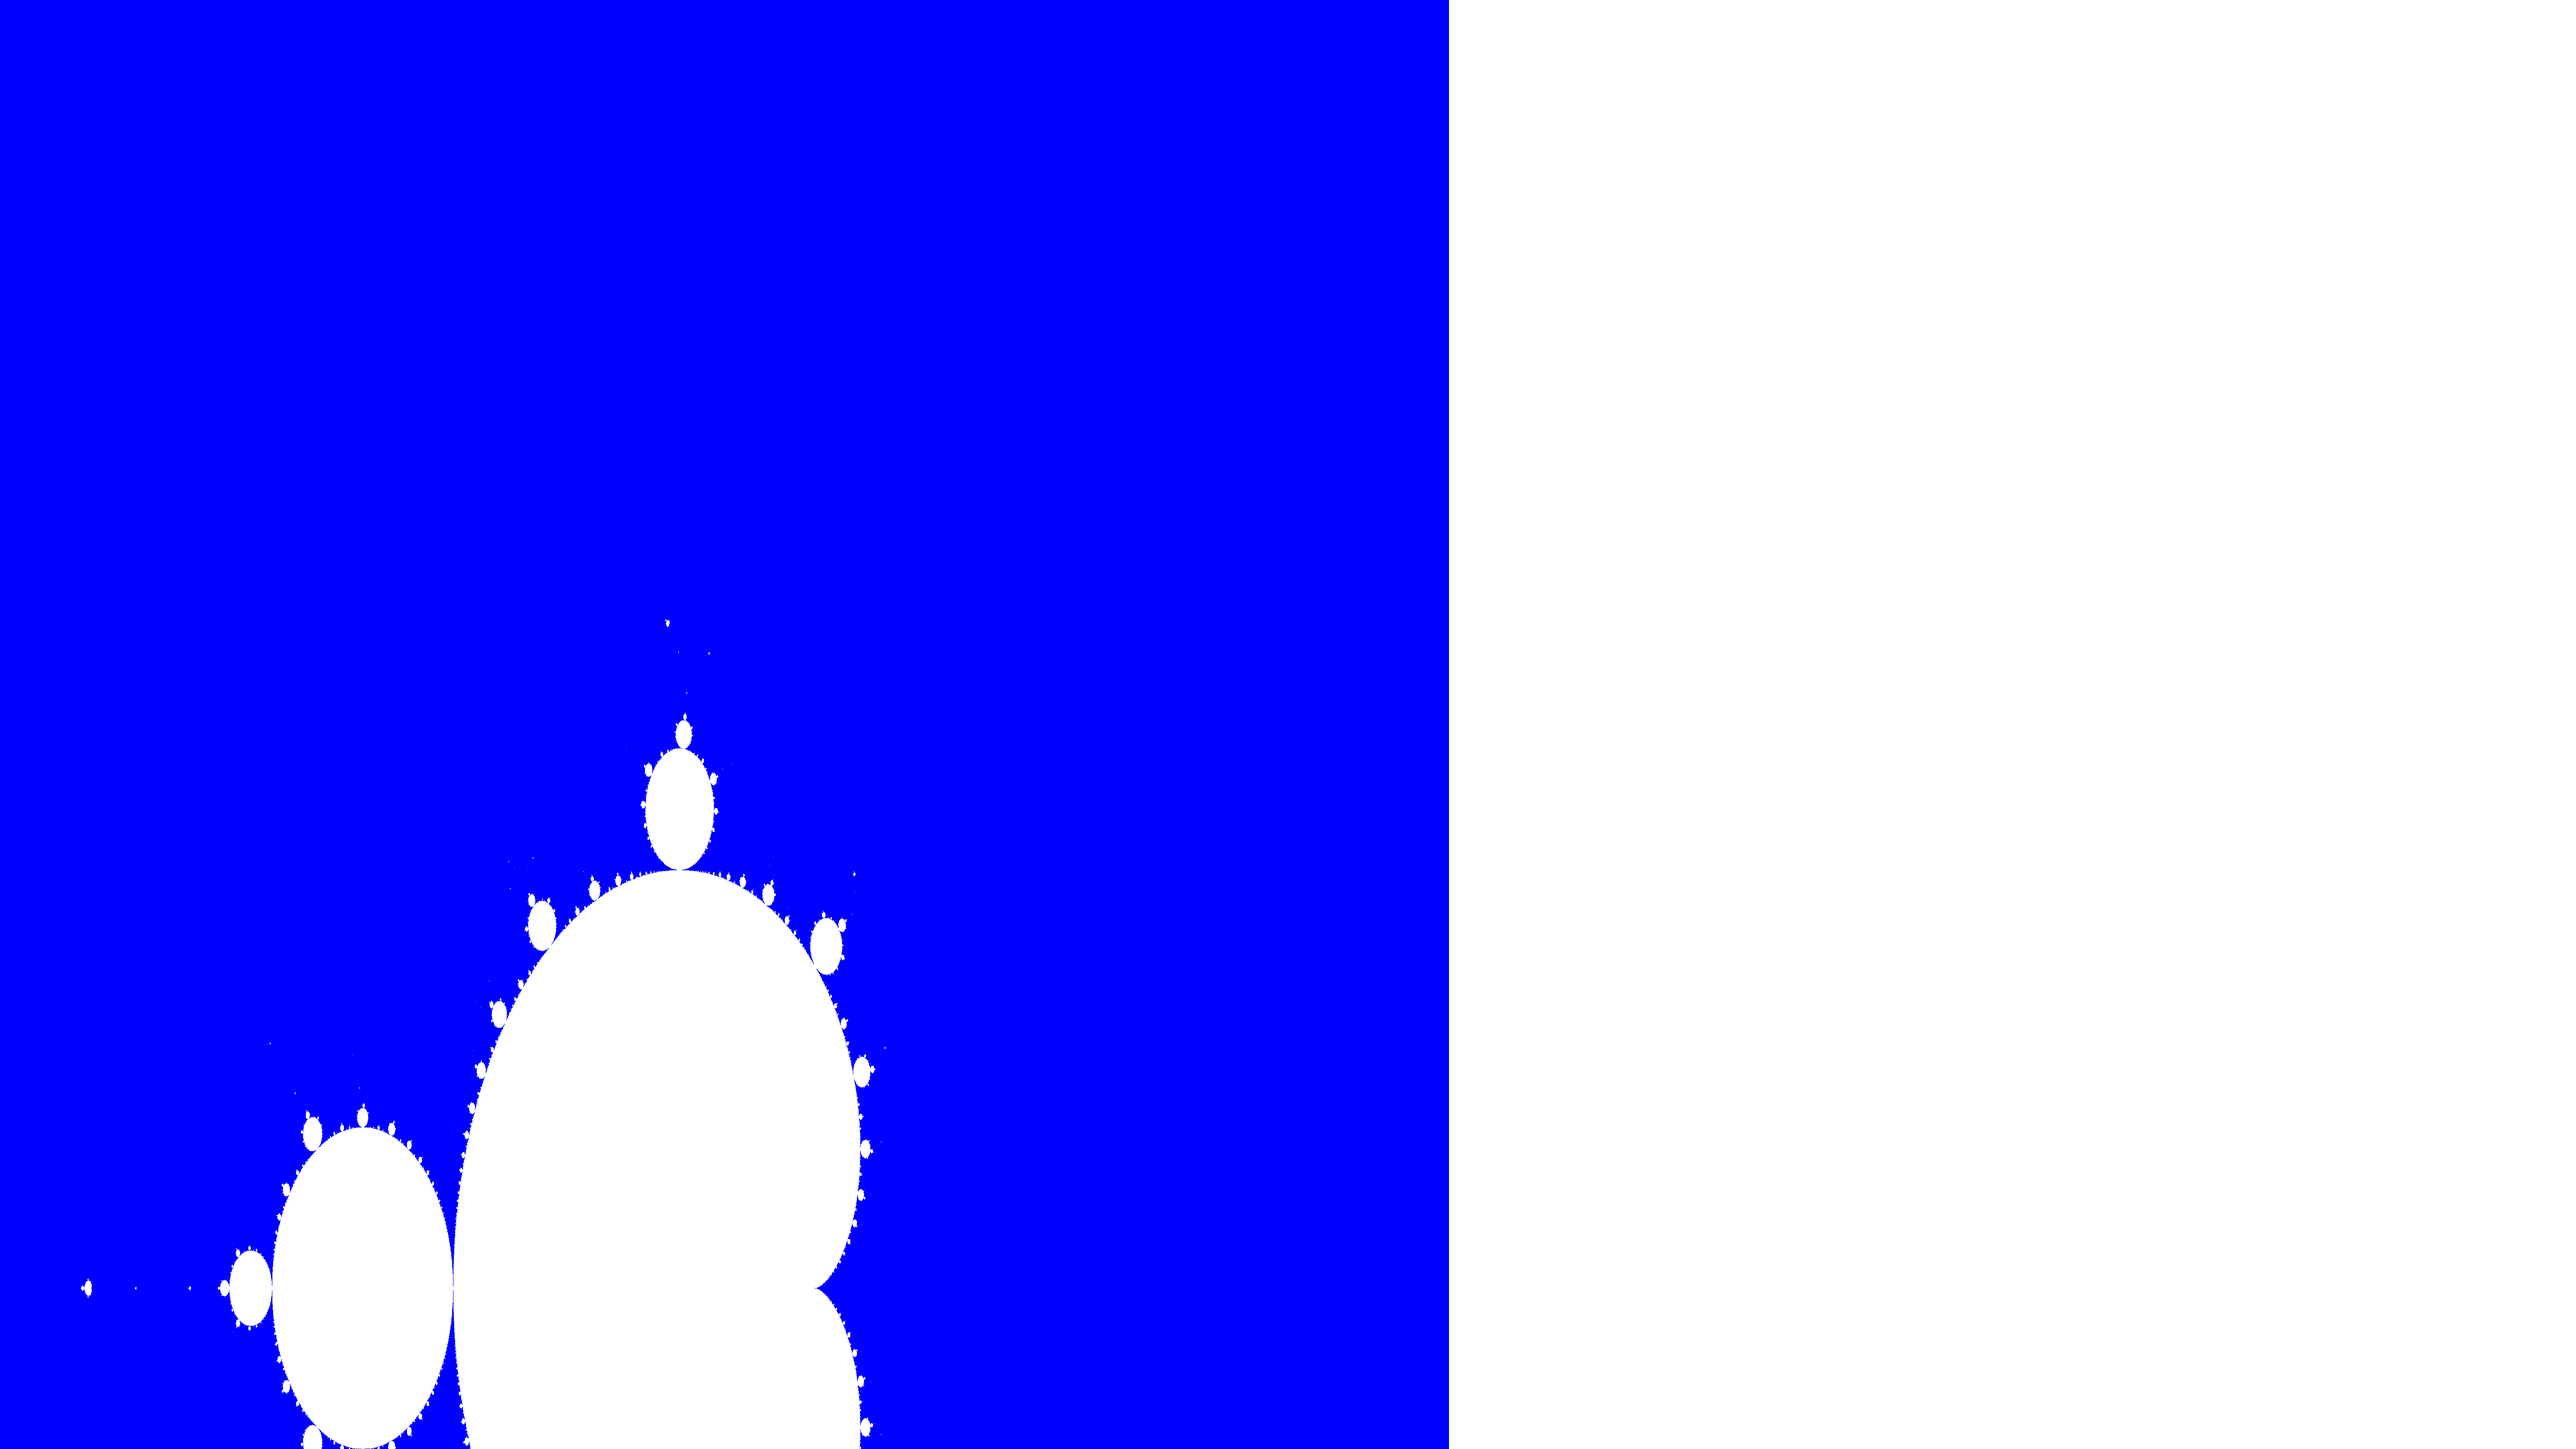
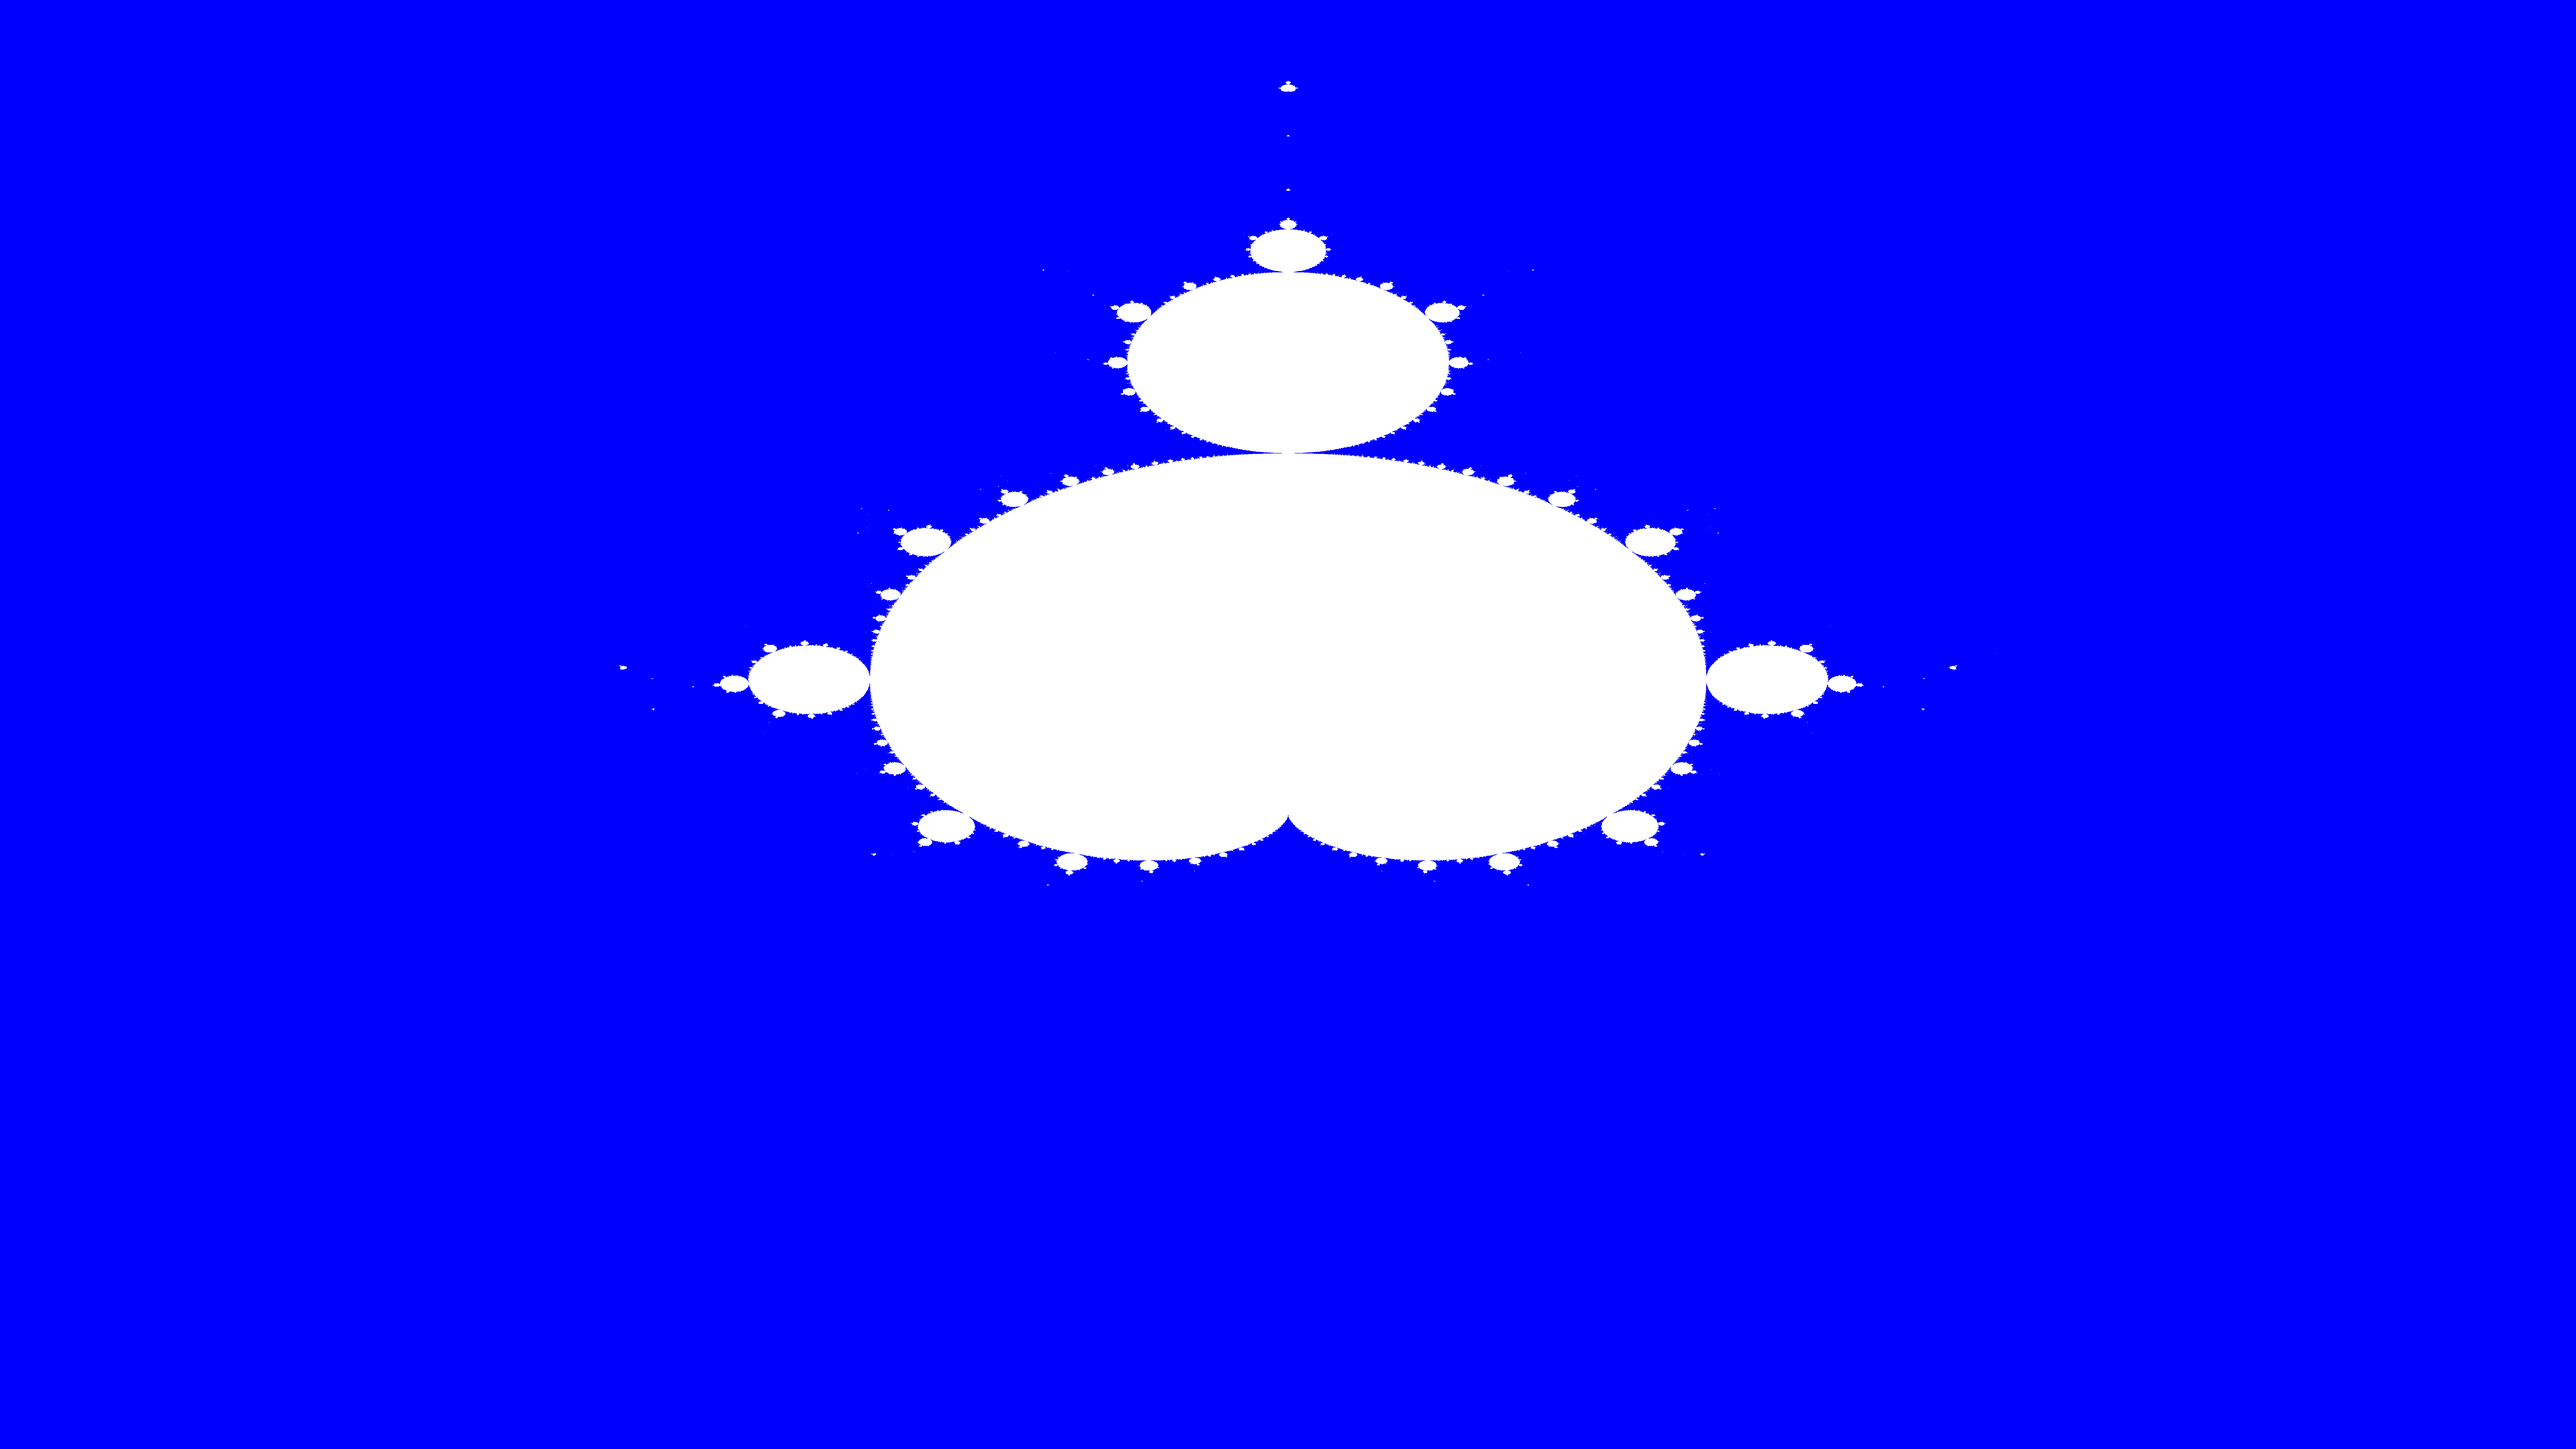
Increased efficiency, decreased accuracy marginally

diff --git a/mandelbrot.go b/mandelbrot.go
@@ -36,12 +36,12 @@ func main() {
     png.Encode(f, img)
 }
 
-func computeNext(z complex128, c complex128) complex128{
+func computeNext(z complex128, c complex128) complex128 {
 	return z * z + c
 }
 
 func isTendToInf(z complex128, c complex128) bool {
-	for i:= 0; i < 1000; i++ {
+	for i:= 0; i < 300; i++ {
 		z = computeNext(z, c)
 		if cmplx.IsInf(z) {
 			return true
